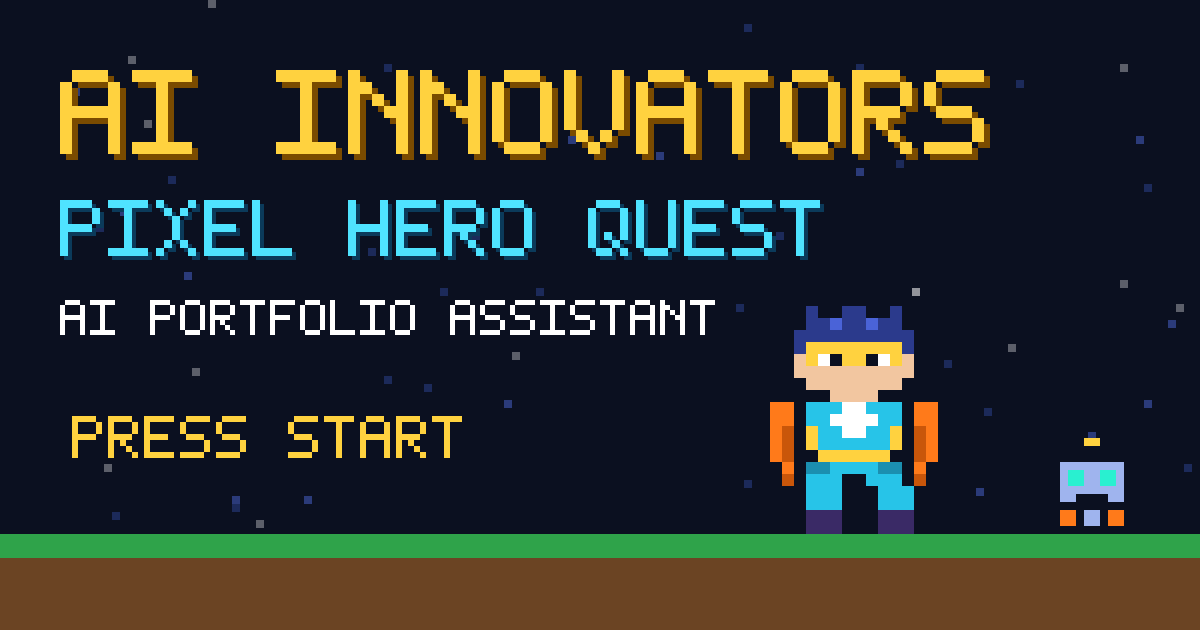
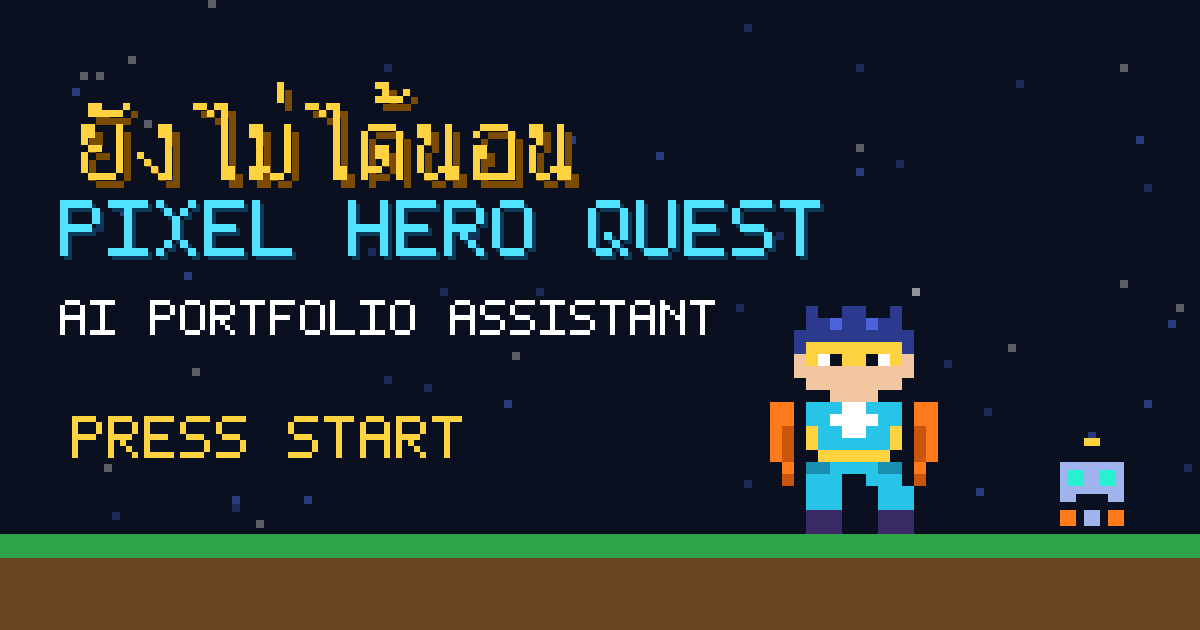
chore: rename team to 'ยังไม่ได้นอน' (UI, meta tags, boss prompt, OG image)
Claude-Session: https://claude.ai/code/session_011DHgSj1rpTkv5htKE6uTzb

Changed region(s): [[0.0308, 0.0905, 0.8325, 0.3016]]

diff --git a/index.html b/index.html
@@ -5,17 +5,17 @@
     <link rel="icon" type="image/svg+xml" href="/favicon.svg" />
     <meta name="viewport" content="width=device-width, initial-scale=1.0" />
     <meta name="theme-color" content="#0b1020" />
-    <meta name="description" content="AI Innovators Portfolio - Pixel Hero Quest: พอร์ตโฟลิโอธีมเกมพิกเซลพร้อม AI Assistant" />
+    <meta name="description" content="ทีมยังไม่ได้นอน - Pixel Hero Quest: พอร์ตโฟลิโอธีมเกมพิกเซลพร้อม AI Assistant" />
     <meta property="og:type" content="website" />
-    <meta property="og:site_name" content="AI Innovators" />
-    <meta property="og:title" content="AI Innovators | Pixel Hero Quest" />
+    <meta property="og:site_name" content="ทีมยังไม่ได้นอน" />
+    <meta property="og:title" content="ยังไม่ได้นอน | Pixel Hero Quest" />
     <meta property="og:description" content="พอร์ตโฟลิโอธีมเกมพิกเซล RPG พร้อม AI Assistant ให้ลองคุยและท้าบอสด่านสุดท้าย" />
     <meta property="og:url" content="https://chat-ai-portfolio-fe.vercel.app/" />
     <meta property="og:image" content="https://chat-ai-portfolio-fe.vercel.app/og-image.png" />
     <meta property="og:image:width" content="1200" />
     <meta property="og:image:height" content="630" />
     <meta name="twitter:card" content="summary_large_image" />
-    <meta name="twitter:title" content="AI Innovators | Pixel Hero Quest" />
+    <meta name="twitter:title" content="ยังไม่ได้นอน | Pixel Hero Quest" />
     <meta name="twitter:description" content="พอร์ตโฟลิโอธีมเกมพิกเซล RPG พร้อม AI Assistant" />
     <meta name="twitter:image" content="https://chat-ai-portfolio-fe.vercel.app/og-image.png" />
     <link rel="preconnect" href="https://fonts.googleapis.com" />
@@ -24,7 +24,7 @@
       href="https://fonts.googleapis.com/css2?family=Chakra+Petch:wght@400;500;600;700&family=Press+Start+2P&display=swap"
       rel="stylesheet"
     />
-    <title>AI Innovators | Pixel Hero Quest</title>
+    <title>ยังไม่ได้นอน | Pixel Hero Quest</title>
   </head>
   <body>
     <div id="root"></div>

diff --git a/src/pages/Home.tsx b/src/pages/Home.tsx
@@ -219,7 +219,7 @@ function TitleScreen({ onStart }: { onStart: () => void }) {
         PRESS START
       </button>
       <p className="text-xs text-slate-300">กด Enter / Space หรือแตะปุ่มเพื่อเริ่มเกม</p>
-      <p className="font-pixel text-[8px] text-slate-400">© 2026 AI INNOVATORS TEAM</p>
+      <p className="text-xs font-bold text-slate-400">© 2026 ทีมยังไม่ได้นอน</p>
     </section>
   );
 }
@@ -412,7 +412,7 @@ function MainHome() {
         <div className="max-w-6xl mx-auto px-4 md:px-6 py-3 flex items-center justify-between gap-3">
           <div className="flex items-center gap-3">
             <PixelArt rows={ROBOT_ROWS} palette={ROBOT_PALETTE} size={3} />
-            <span className="font-pixel text-[10px] md:text-xs text-hero-gold">AI INNOVATORS</span>
+            <span className="text-base md:text-lg font-bold text-hero-gold">ยังไม่ได้นอน</span>
           </div>
           <div className="flex items-center gap-2 md:gap-4">
             <a href="#skills" className="hidden sm:inline font-pixel text-[9px] text-slate-200 hover:text-hero-gold">
@@ -528,7 +528,7 @@ function MainHome() {
       {/* Footer */}
       <footer className="pixel-bar border-b-0 border-t-4 py-8">
         <div className="max-w-6xl mx-auto px-6 flex flex-col sm:flex-row items-center justify-between gap-4 text-center">
-          <p className="font-pixel text-[8px] text-slate-300 leading-relaxed">© 2026 AI INNOVATORS TEAM. ALL RIGHTS RESERVED.</p>
+          <p className="text-xs font-bold text-slate-300 leading-relaxed">© 2026 ทีมยังไม่ได้นอน · ALL RIGHTS RESERVED</p>
           <a
             href="mailto:Patsachai.sawa@bumail.net"
             className="flex items-center gap-2 font-pixel text-[9px] text-hero-cyan hover:text-hero-gold"

diff --git a/src/lib/missions.ts b/src/lib/missions.ts
@@ -21,7 +21,7 @@ export const MISSIONS: Mission[] = [
 
 // ให้ AI ตอบจากข้อมูลที่มีเท่านั้น กันแต่งเรื่องเพิ่ม
 export const BOSS_PROMPT =
-  'ช่วยประกาศเปิดตัวทีม AI Innovators สั้นๆ แบบบอสด่านสุดท้ายในเกม สรุปจุดเด่นของทีมและสมาชิกจากข้อมูลที่มีเท่านั้น ไม่เกิน 6 บรรทัด ใช้ภาษาตื่นเต้นแต่สุภาพ และห้ามแต่งข้อมูลที่ไม่มี';
+  'ช่วยประกาศเปิดตัวทีม "ยังไม่ได้นอน" สั้นๆ แบบบอสด่านสุดท้ายในเกม สรุปจุดเด่นของทีมและสมาชิกจากข้อมูลที่มีเท่านั้น ไม่เกิน 6 บรรทัด ใช้ภาษาตื่นเต้นแต่สุภาพ และห้ามแต่งข้อมูลที่ไม่มี';
 
 export const BOSS_LABEL = '⚔ FINAL BOSS STAGE';
 
